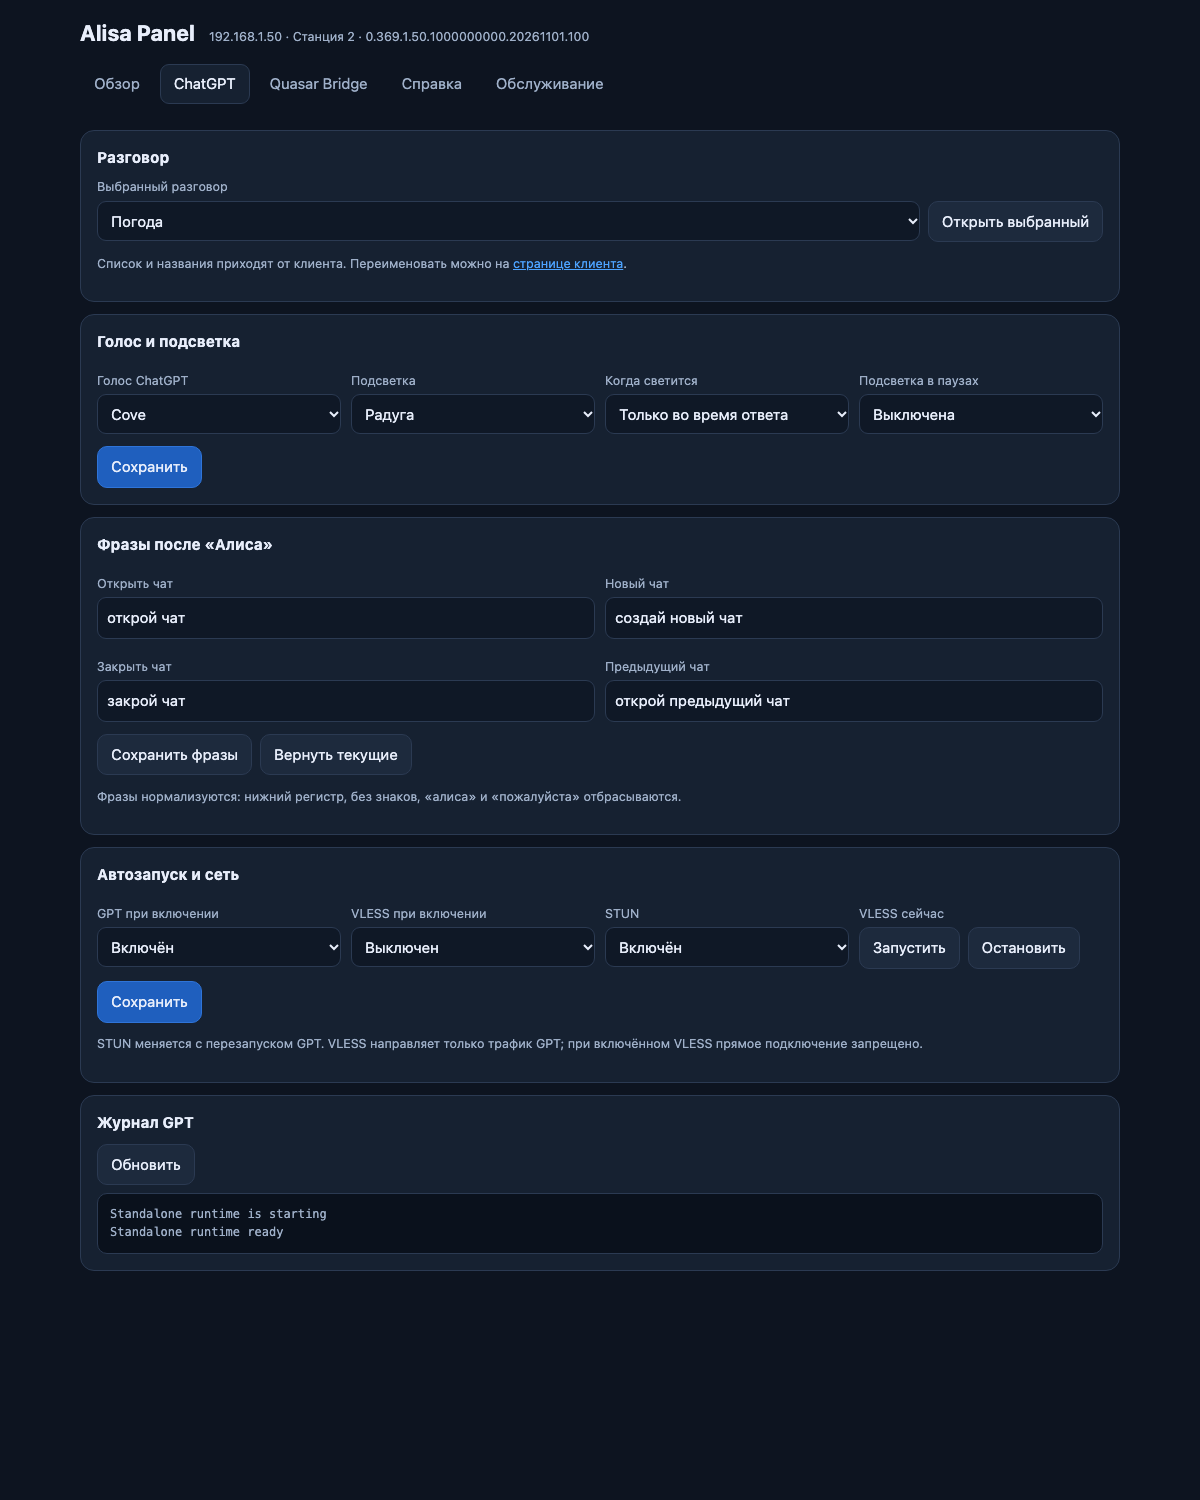
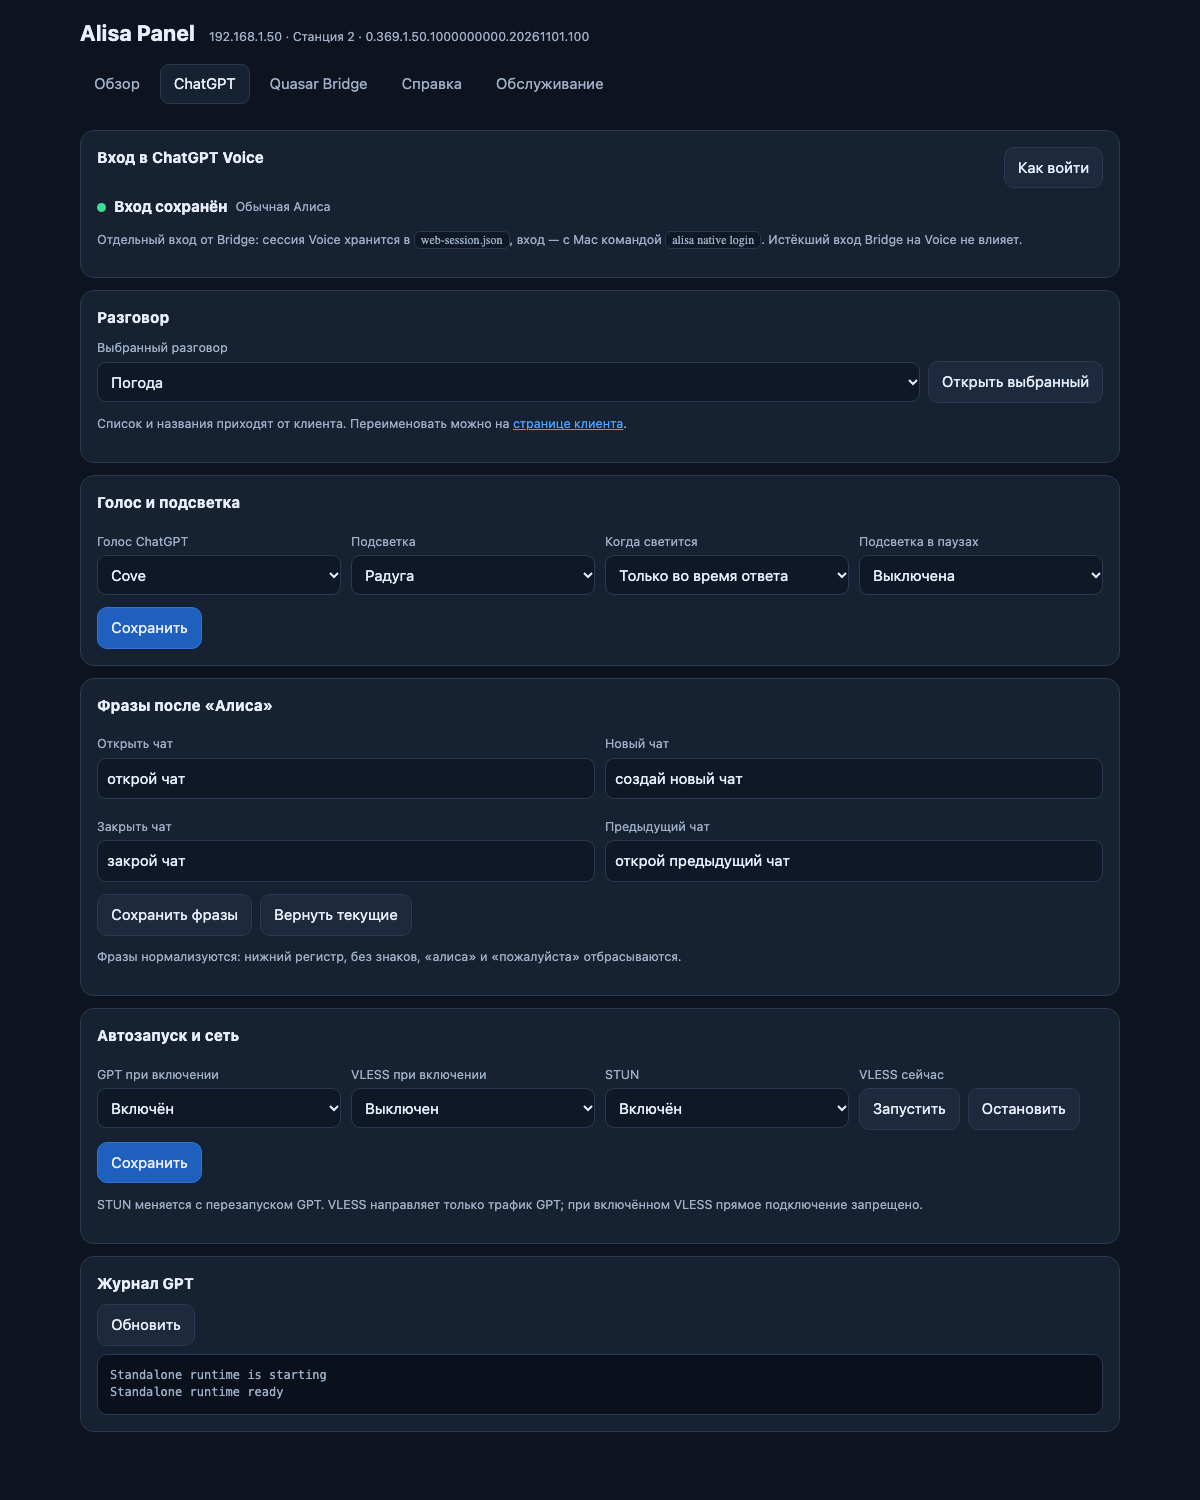
ChatGPT tab: show Voice sign-in status separately from Bridge

diff --git a/panel/index.html b/panel/index.html
@@ -127,6 +127,20 @@ kbd{background:#0f1826;border:1px solid var(--line);border-radius:6px;padding:1p
 
   <section class="tab" id="tab-gpt">
     <div class="box">
+      <div class="row" style="justify-content:space-between;align-items:flex-start">
+        <h2 style="margin:0">Вход в ChatGPT Voice</h2>
+        <button class="btn" onclick="goTab('help')">Как войти</button>
+      </div>
+      <div class="row" style="margin-top:8px">
+        <span class="dot" id="voiceDot"></span>
+        <b id="voiceLogin">…</b>
+        <span class="muted small" id="voiceNote"></span>
+      </div>
+      <p class="muted small">Отдельный вход от Bridge: сессия Voice хранится в <kbd>web-session.json</kbd>,
+      вход — с Mac командой <kbd>alisa native login</kbd>. Истёкший вход Bridge на Voice не влияет.</p>
+    </div>
+
+    <div class="box">
       <h2>Разговор</h2>
       <label for="chat">Выбранный разговор</label>
       <div class="row">
@@ -354,6 +368,8 @@ kbd{background:#0f1826;border:1px solid var(--line);border-radius:6px;padding:1p
       <pre>ssh -p 2222 root@<span class="speaker-ip">SPEAKER_IP</span> 'sh /data/opt/quasar-bridge/app/control.sh chatgpt-status'
 ssh -p 2222 root@<span class="speaker-ip">SPEAKER_IP</span> 'sh /data/opt/quasar-bridge/app/control.sh chatgpt-models'</pre>
       <p>Затем нажмите ↻ у поля «Модель»: список придёт от Bridge. После входа панель сама проверяет подписку настоящим запросом к LLM и показывает результат. Выйти из аккаунта можно кнопкой «Выйти» в блоке «Вход в ChatGPT».</p>
+      <p class="muted small">Это вход Bridge для LLM. Вход ChatGPT Voice — отдельный:
+      <kbd>alisa native login</kbd> (см. «Если ChatGPT не отвечает»); сессии не связаны.</p>
       <p class="muted small">Ссылка входа одноразовая и действует 10 минут. Туннель после
       входа можно закрыть; порт 1455 на компьютере должен быть свободен.</p>
     </div>
@@ -524,6 +540,10 @@ function render(s){
   $('gptState').textContent=s.gpt.running?(PHASES[phase]||phase):'остановлен';
   dot('gptDot',s.gpt.running?(phase==='idle'?'ok':(phase==='active'?'ok':'warn')):'bad');
   $('gptSub').textContent=s.gpt.running?(s.gpt.login_saved?'вход сохранён':'нужен вход в ChatGPT'):'';
+  const gptError=g.error?(ERRORS[g.error]||('Ошибка GPT: '+g.error)):'';
+  $('voiceDot').className='dot '+(s.gpt.running?(s.gpt.login_saved?'ok':'bad'):'');
+  $('voiceLogin').textContent=(s.gpt.running?(s.gpt.login_saved?'Вход сохранён':'Нужен вход в ChatGPT'):'GPT остановлен');
+  $('voiceNote').textContent=gptError?('Ошибка: '+gptError):(s.gpt.running?(PHASES[phase]||phase):'Вход сохранится после запуска.');
   $('vpnState').textContent=s.flags.vpn_running?'работает':'выключен';
   dot('vpnDot',s.flags.vpn_running?'ok':'');
   $('vpnSub').textContent=s.flags.vpn_autostart?'автозапуск':'';
@@ -577,6 +597,7 @@ document.querySelectorAll('nav button').forEach(b=>b.addEventListener('click',()
   showTab(b.dataset.tab);
   history.replaceState(null,'','#'+b.dataset.tab);
 }));
+function goTab(name){const b=document.querySelector('nav button[data-tab="'+name+'"]');if(b)b.click()}
 if(location.hash)showTab(location.hash.slice(1));
 function copyText(text){if(navigator.clipboard&&window.isSecureContext)return navigator.clipboard.writeText(text);return new Promise((ok,bad)=>{const ta=document.createElement('textarea');ta.value=text;ta.style.position='fixed';ta.style.top='-1000px';document.body.appendChild(ta);ta.select();let done=false;try{done=document.execCommand('copy')}catch(e){done=false}ta.remove();done?ok():bad(new Error('copy failed'))})}
 function setupCopyButtons(){document.querySelectorAll('#tab-help pre').forEach(pre=>{const wrap=document.createElement('div');wrap.className='prewrap';pre.parentNode.insertBefore(wrap,pre);wrap.appendChild(pre);const b=document.createElement('button');b.type='button';b.className='copy-btn';b.textContent='Копировать';b.onclick=()=>copyText(pre.innerText).then(()=>{b.textContent='Скопировано';setTimeout(()=>{b.textContent='Копировать'},1500)},()=>toast('Не удалось скопировать. Выделите текст вручную.',true));wrap.appendChild(b)})}

diff --git a/README-panel.md b/README-panel.md
@@ -58,8 +58,10 @@ init-скрипт `S99zz-alisa-panel`, запускает панель и печ
 
 - **Обзор**: статусы Bridge/GPT/VPN, открыть/новый/предыдущий чат, вернуть Алису,
   запуск/остановка/перезапуск.
-- **ChatGPT**: разговоры, голос, подсветка (стиль, паузы, режим), фразы после
-  «Алиса», автозапуск, STUN, VLESS (старт/стоп), журнал. В блоках «Голос и подсветка»
+- **ChatGPT**: сверху — статус входа Voice (сессия `web-session.json`, последняя
+  ошибка, ссылка «Как войти»), затем разговоры, голос, подсветка (стиль, паузы, режим),
+  фразы после «Алиса», автозапуск, STUN, VLESS (старт/стоп), журнал. Вход Voice отдельный
+  от Bridge (`chatgpt-auth.json`), сессии не связаны. В блоках «Голос и подсветка»
   и «Автозапуск и сеть» одна общая кнопка «Сохранить»; STUN при изменении
   перезапускает GPT с подтверждением.
 - **Quasar Bridge**: процесс, health, endpoint, старт/стоп/перезапуск, проверки,
